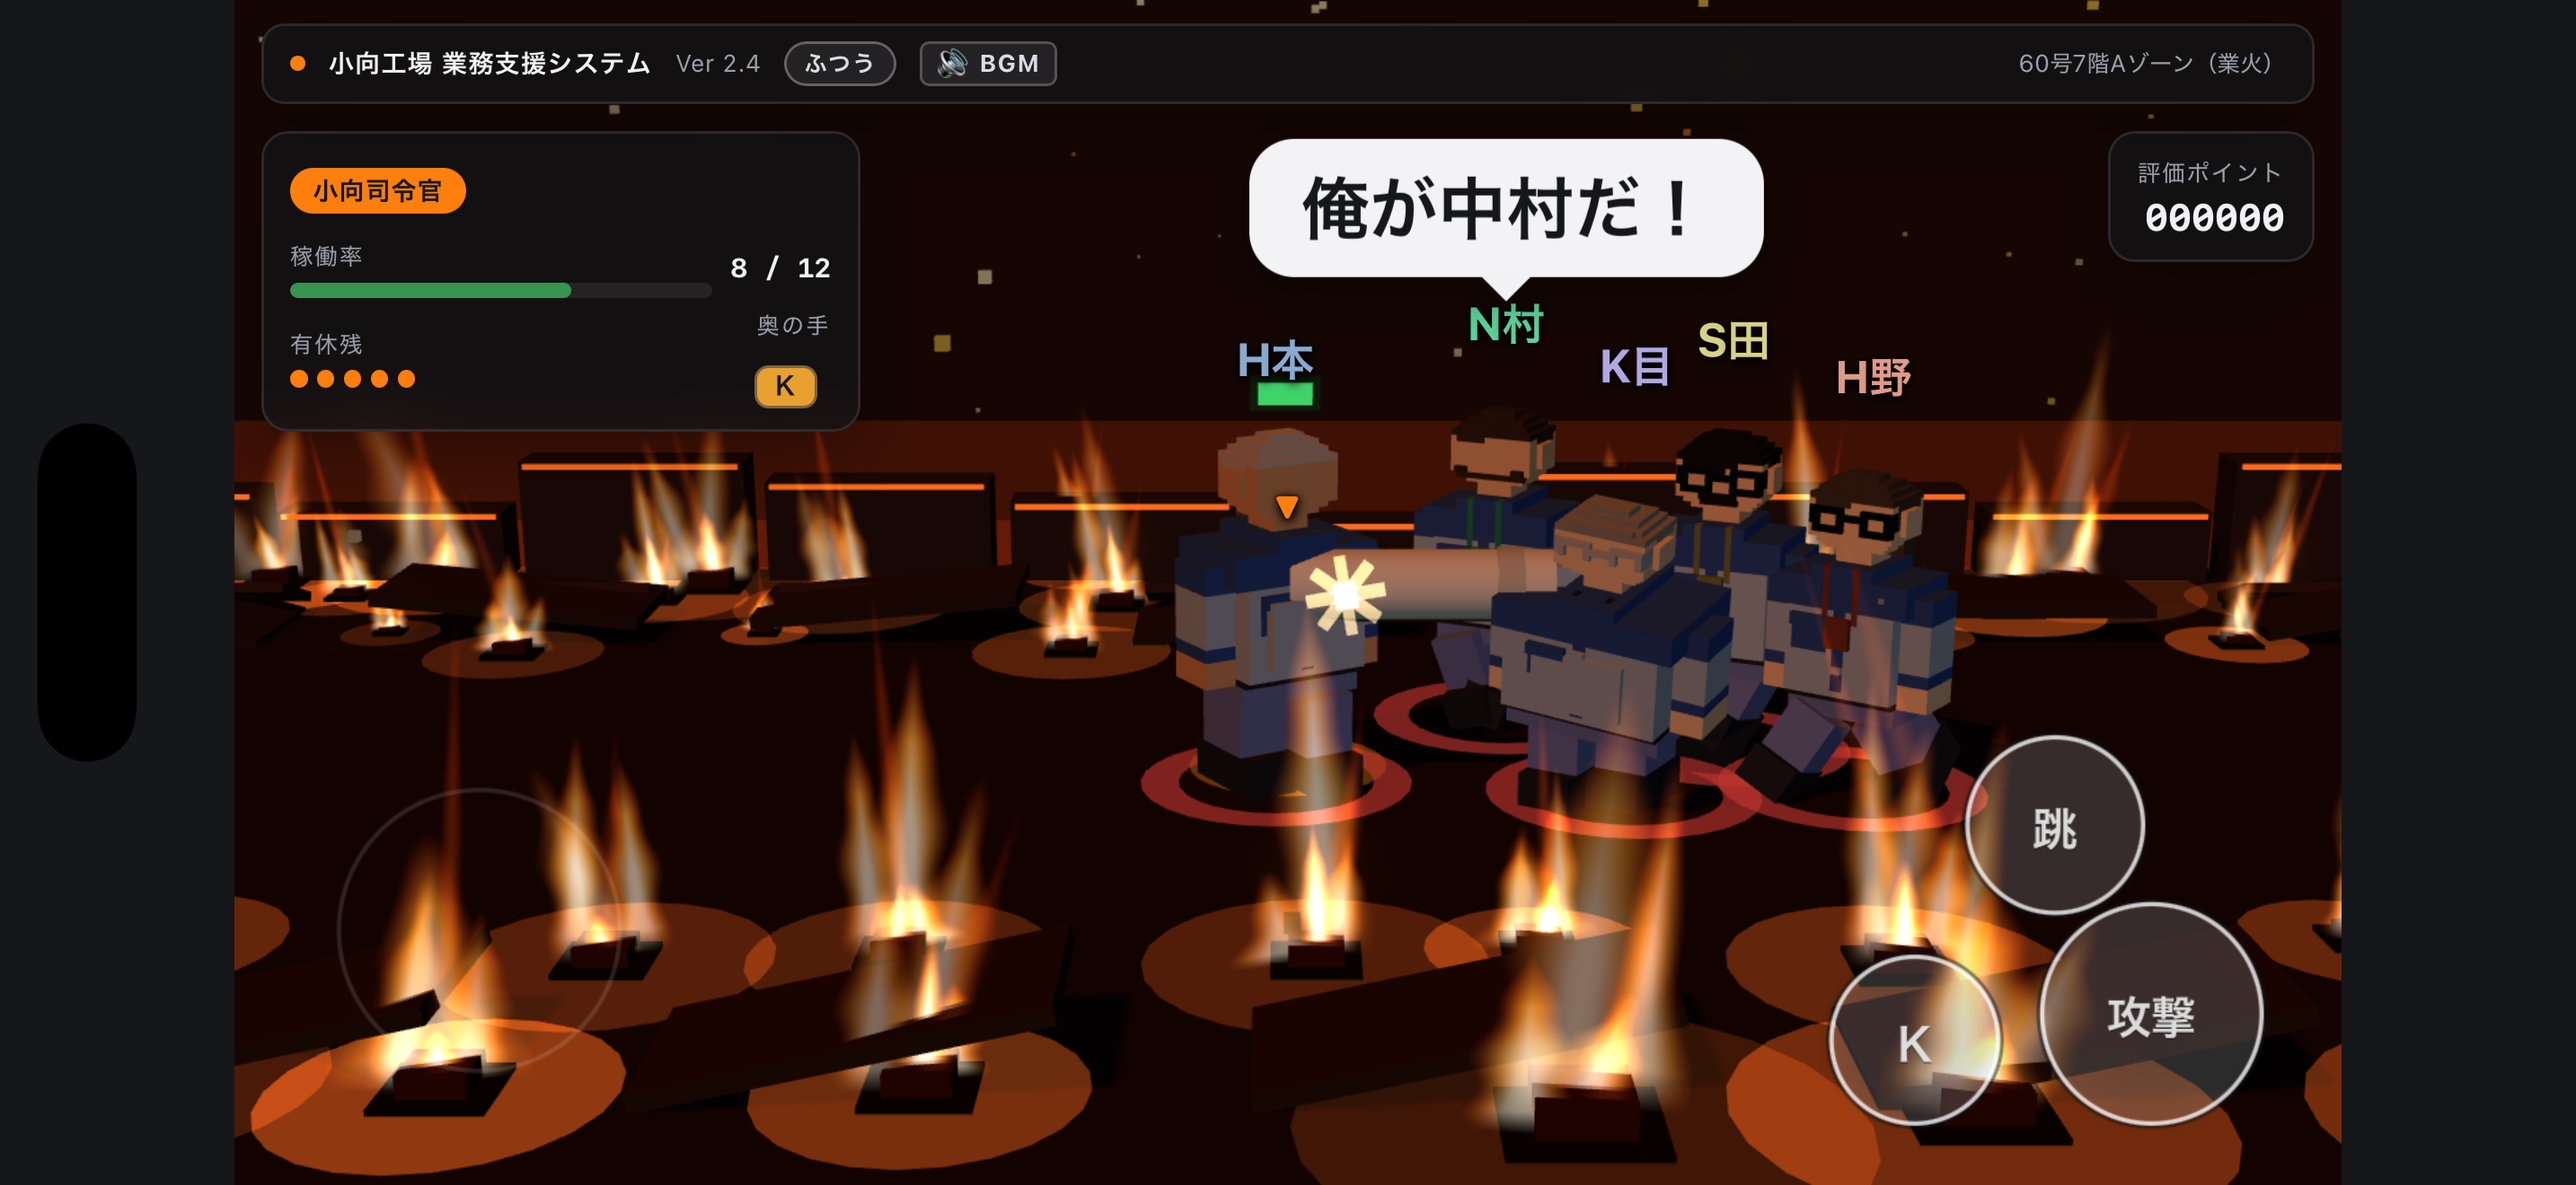
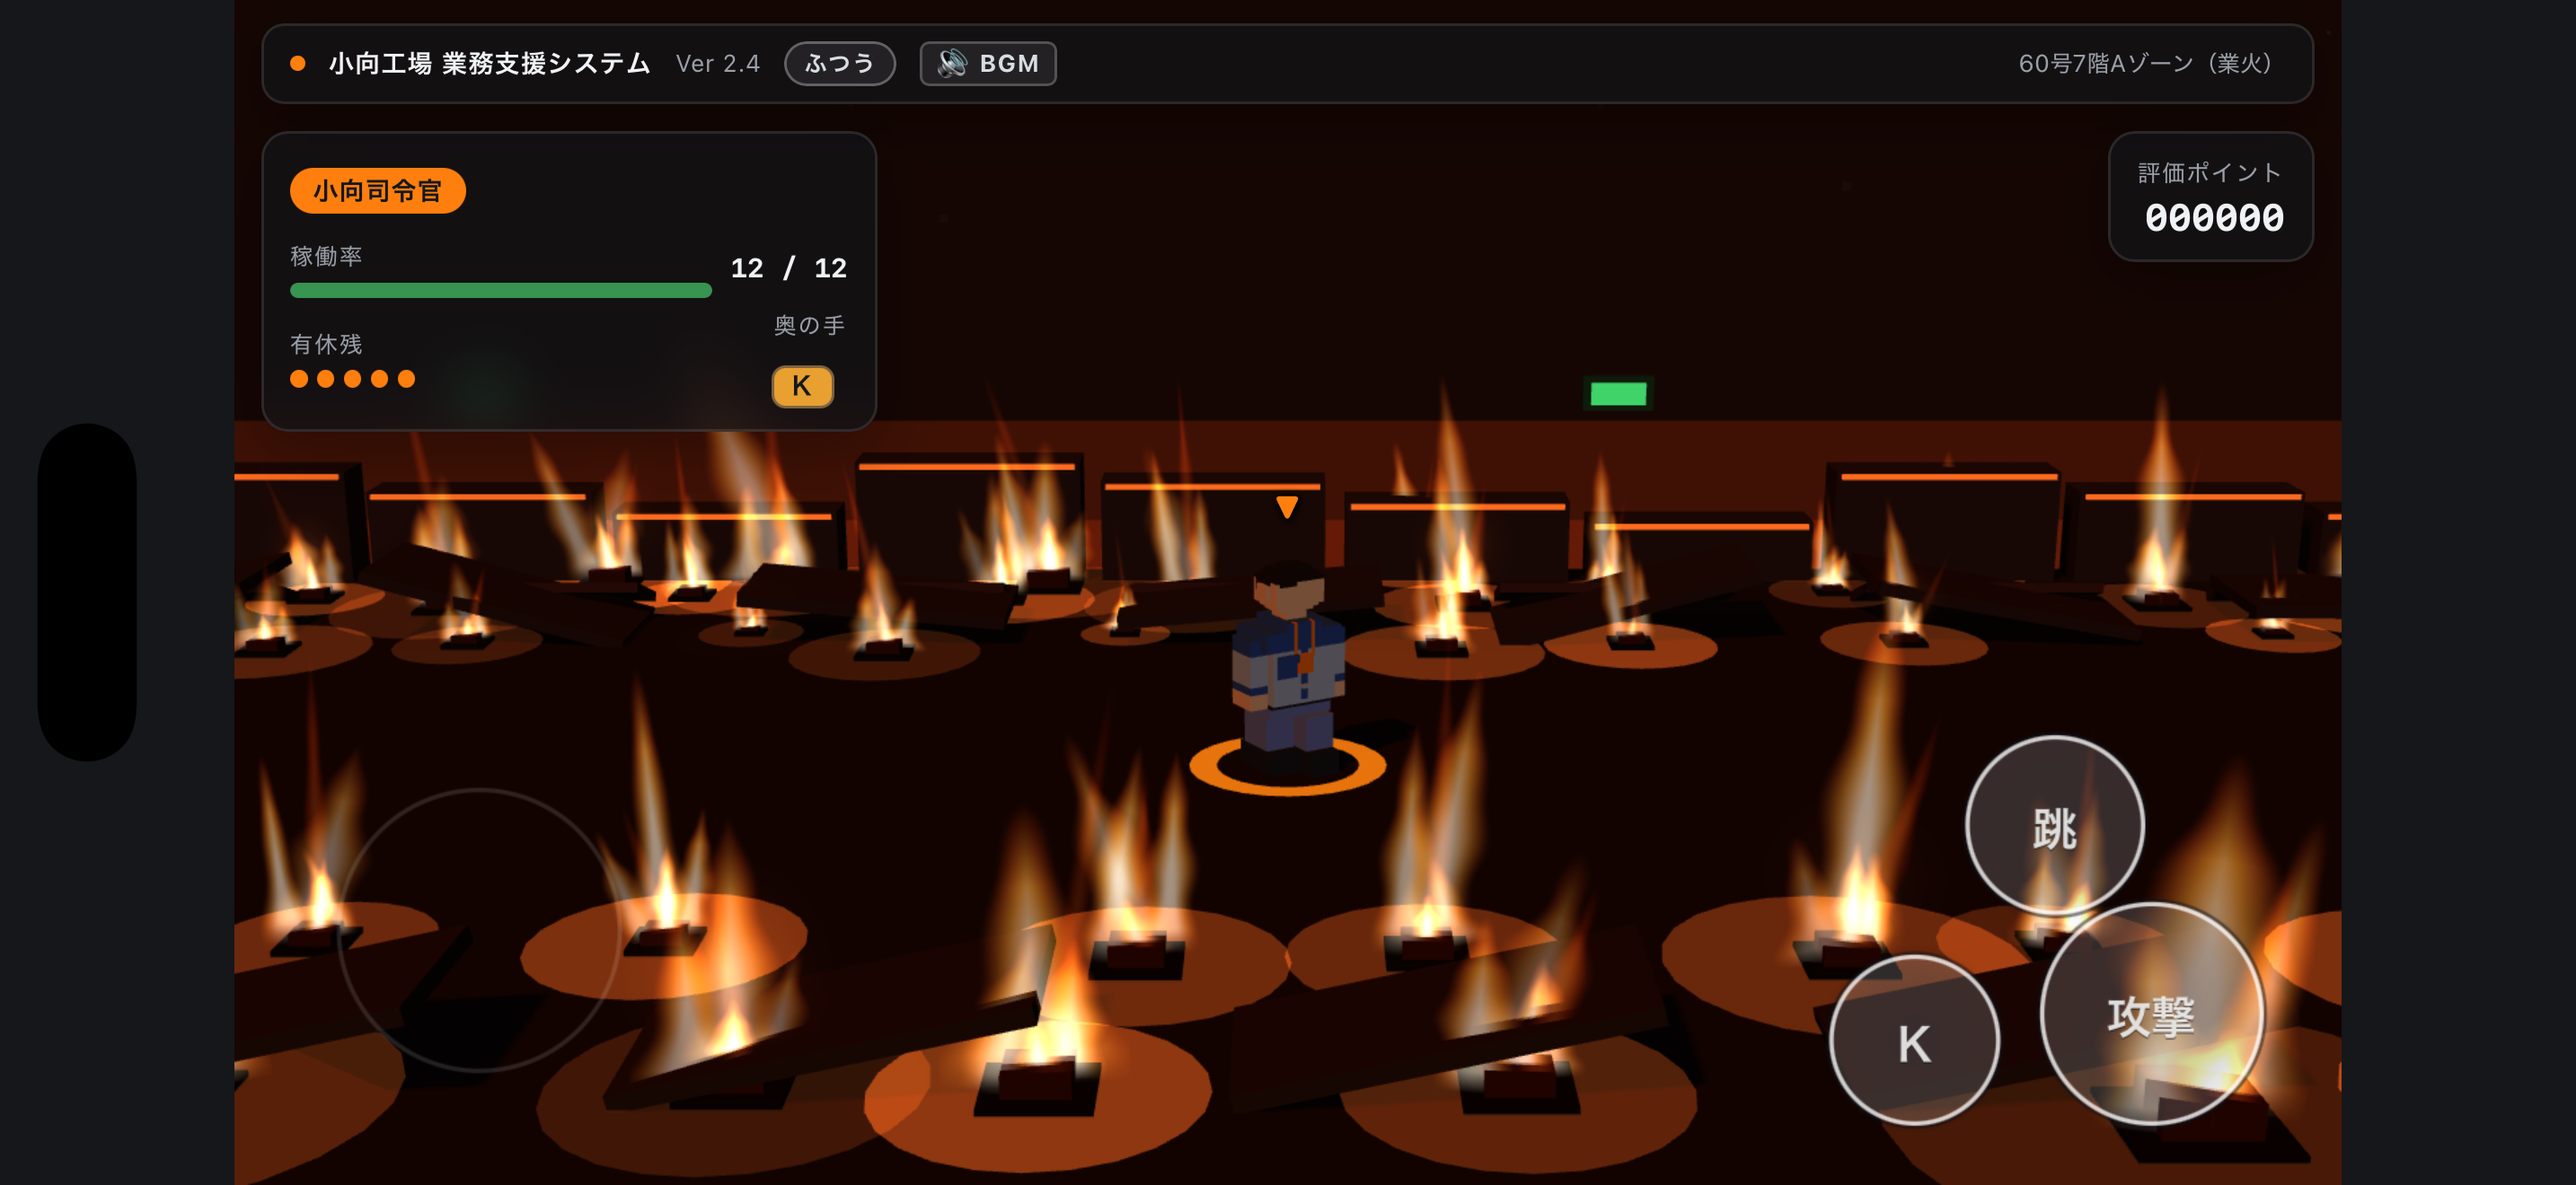
スクリーンショットから実名の出る吹き出しを外した
名札は伏せ字（N村・K目）なのに、セリフだけ taunts.js:266,270,274 が
「俺が中村だ！」「俺が黒目だ！」と実名で出る。ストアに出す画に
入ってしまっていたので、吹き出しの出ていないコマに替えた。

- 中ボス: shot=2.0 → 1.6（吹き出しが出る前）
- 業火: 5人衆を出さない（demo=340。波の境目は player.x>350）。
  5体が常時しゃべるので、2.8〜8.0秒のどこで止めても吹き出しが出た（実測12点）

1_title・2_battle・4_boss・6_honsha は役職名だけで実名は無い。確認済み。
ゲーム側のセリフは本人のものなので触っていない。

diff --git a/Design/appstore/screenshots/README.md b/Design/appstore/screenshots/README.md
@@ -17,9 +17,9 @@ ios/CLAUDE.md のキー一覧に無いが実装済み（game3d/src/main3d.js:360
 |---|---|---|
 | 1 | （なし） | タイトル・作業指示書・難易度 |
 | 2 | — | 道中の戦闘 |
-| 3 | `stage=3&demo=1200&shot=2.0` | 中ボス 生産企画課長 |
+| 3 | `stage=3&demo=1200&shot=1.6` | 中ボス 生産企画課長 |
 | 4 | — | ボス 工場長（稲荷社） |
-| 5 | `stage=ura&demo=460&shot=1.6` | 業火の60号7階Aゾーン |
+| 5 | `stage=ura&demo=340&shot=2.5` | 業火の60号7階Aゾーン（敵なし） |
 | 6 | — | 本社 事業部フロア |
 
 ## 踏んではいけない値
@@ -31,3 +31,11 @@ ios/CLAUDE.md のキー一覧に無いが実装済み（game3d/src/main3d.js:360
   降りてきて、体力バーに名前が出る。隠しボスなのでストアには出さない
   （5人衆の名札は N村 / K目 / S田 / H本 / H野 で、魔王の名前は含まない）
 - バナーは場面で 2.8 秒・波で 2.6 秒。消したいならそれ以降まで進める
+- **吹き出しに実名が出る。ストアには出さないこと。**
+  名札は伏せ字（N村・K目）なのに、セリフだけ `game/src/taunts.js:266,270,274` が
+  「俺が中村だ！」「俺が黒目だ！」と実名で出る。中ボスの `seikikaku` と
+  管理担当Kの `kanrik`、裏の N村・K目 が同じ分類を使っているので、
+  この4体が映る場面では吹き出しの出ていないコマを選ぶ
+- **業火で5人衆を映すと必ず誰かが喋る。** 5体が常時しゃべるため、
+  `shot` を 2.8〜8.0 秒のどこで止めても吹き出しが出た（実測12点すべて）。
+  敵を出さずに撮ること。波の境目は `player.x > 480-130 = 350` なので `demo` は 349 以下
